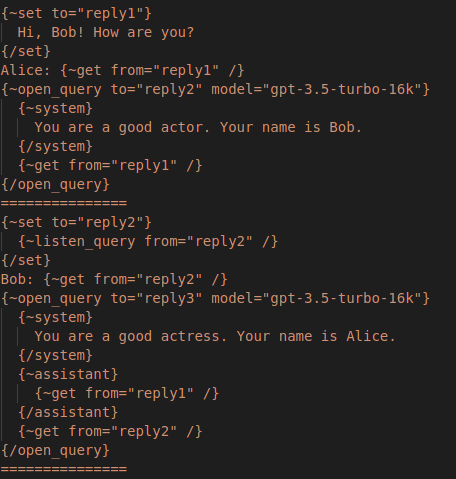
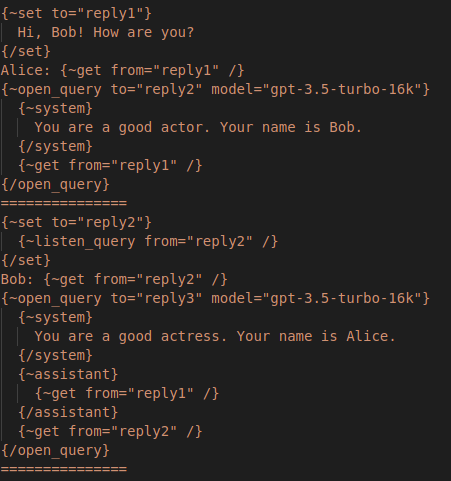
fix dialog test

Changed region(s): [[0.0, 0.0, 0.9623, 0.9937], [0.5277, 0.6722, 0.8692, 0.7307]]

diff --git a/tests/dialogues/simple-dialogue.go b/tests/dialogues/simple-dialogue.go
@@ -51,6 +51,7 @@ func SimpleDialogTest(
 				{~system}
 					You are a good actor. Your name is Bob.
 				{/system}
+				{~get from="reply1" /}
 				{~assistant}
 					{~get from="reply2" /}
 				{/assistant}
@@ -68,6 +69,7 @@ func SimpleDialogTest(
 				{~assistant}
 					{~get from="reply1" /}
 				{/assistant}
+				{~get from="reply2" /}
 				{~assistant}
 					{~get from="reply3" /}
 				{/assistant}
